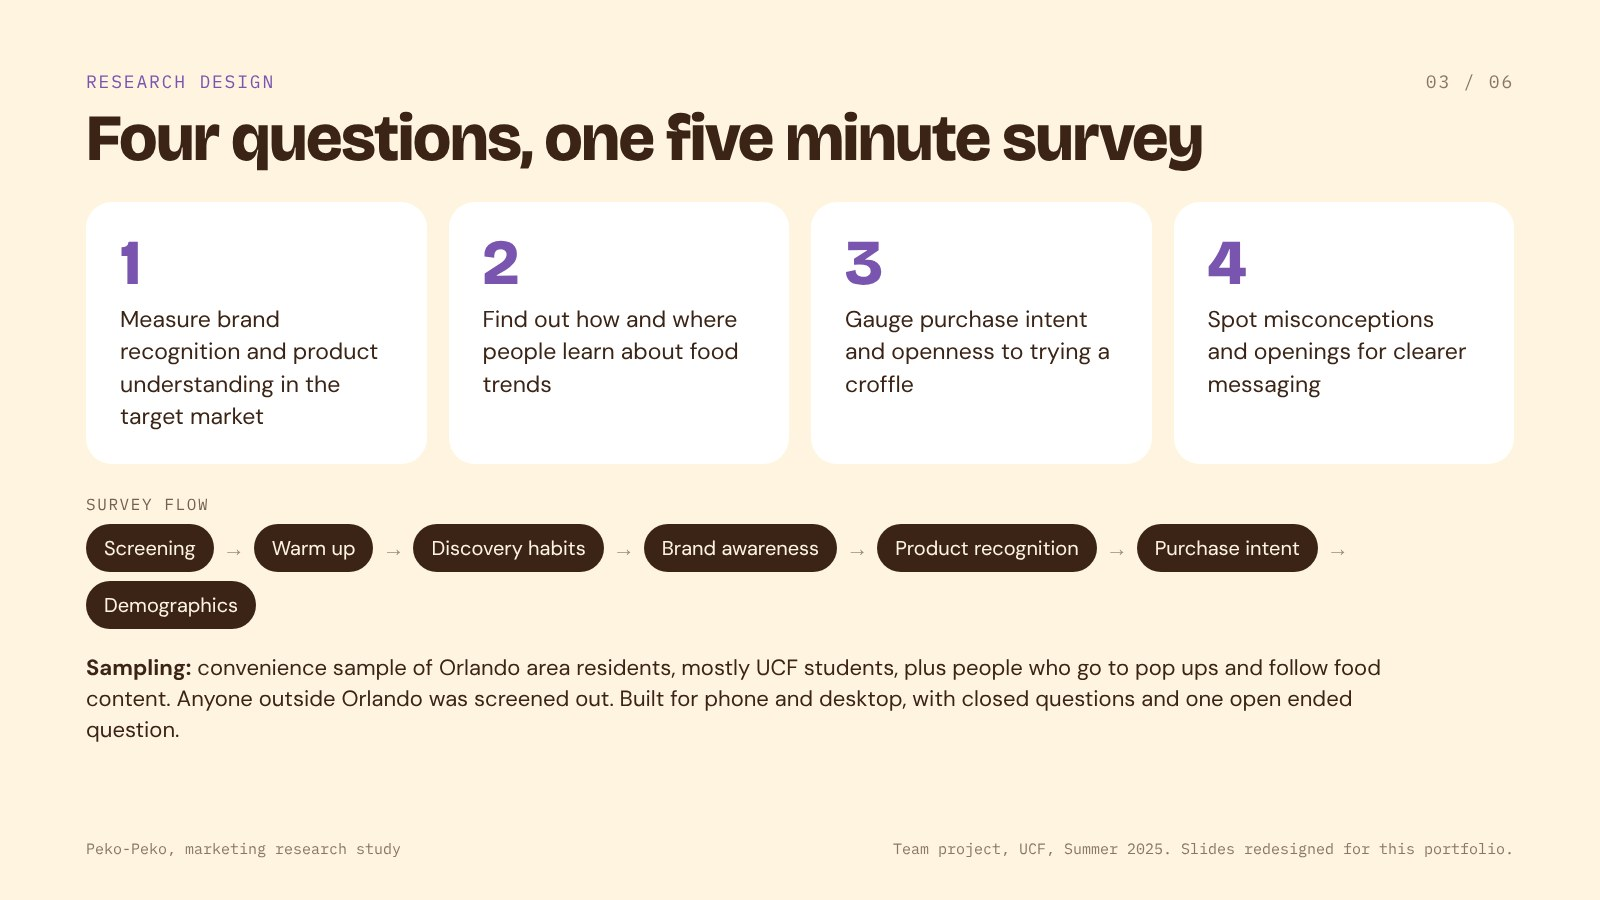
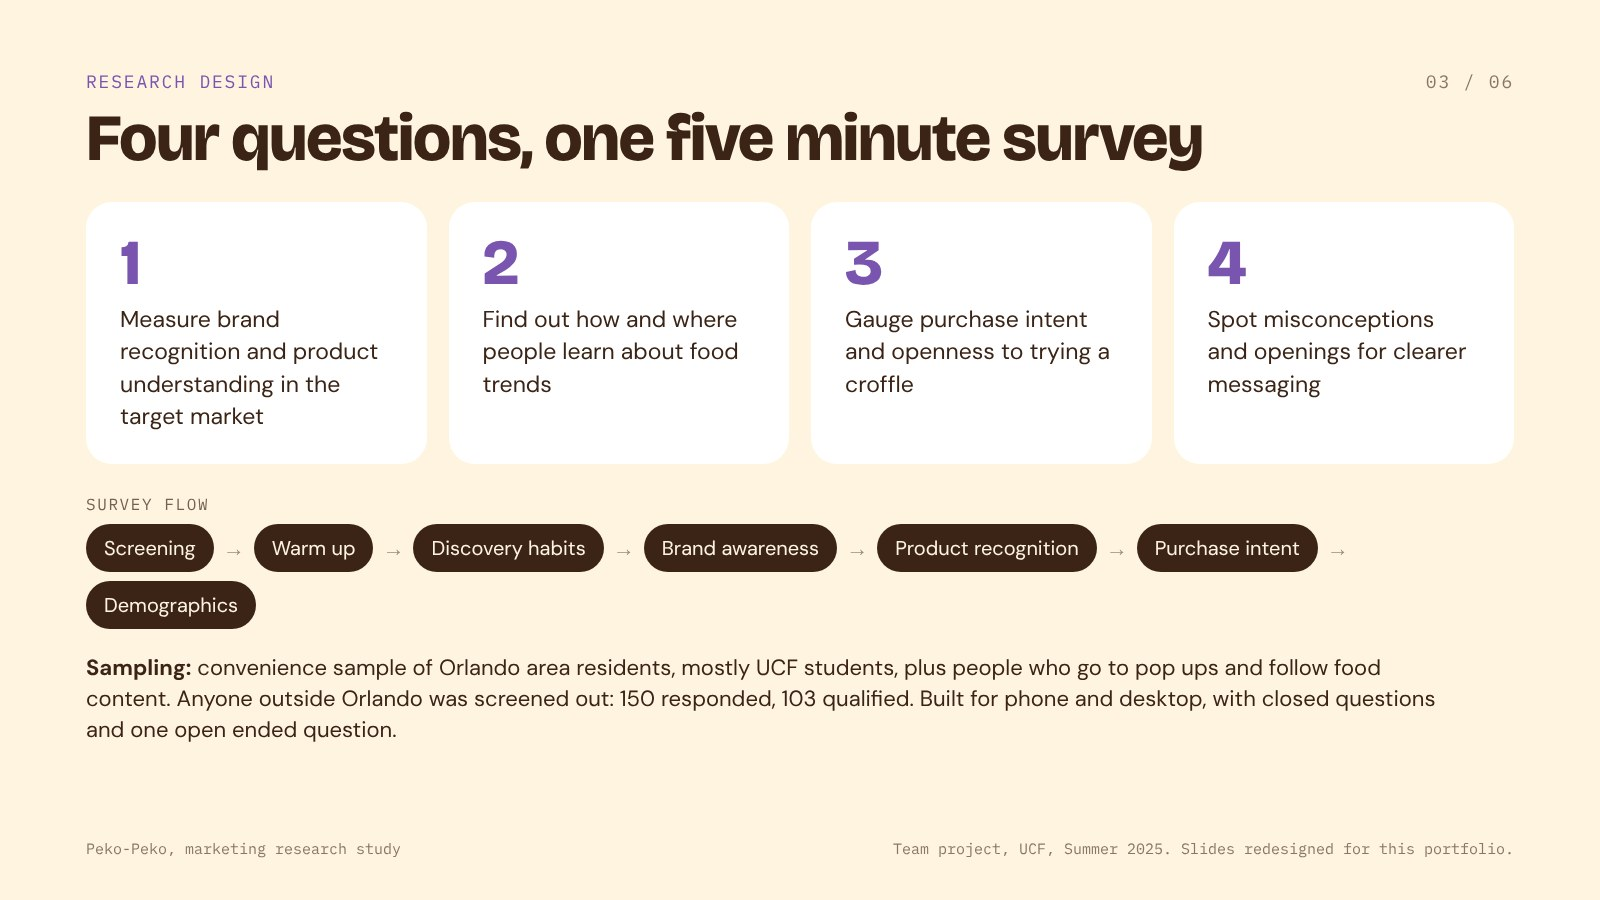
Peko Peko sample wording (150 responses, 103 qualified), remove teammate names from title slides, neutral home page copy
Claude-Session: https://claude.ai/code/session_01A59cpa2LtsJ4dSUsHR6Ge1

Changed region(s): [[0.375, 0.7467, 0.875, 0.8089], [0.0625, 0.8089, 0.25, 0.84]]

diff --git a/cases/pekopeko/index.html b/cases/pekopeko/index.html
@@ -10,7 +10,7 @@
 <section class="bhead"><div class="wrap"><a class="crumb" href="../../index.html#research">Research and strategy</a>
 <h1>Peko Peko</h1><p class="dek">Marketing research, UCF, Summer 2025, team project</p></div></section>
 <section class="block"><div class="wrap"><div class="pra"><div><span class="h4">Problem</span><p>A croffle pop up in Orlando, owned by UCF alumni, had just rebranded. It needed to know if local people recognized the brand, understood the product and would try it before spending more on growth.</p></div>
-<div><span class="h4">What I did</span><p>I led outreach to 20+ alumni owned businesses on a 48 hour deadline to find the client, then our team designed a Qualtrics survey sent to 150+ consumers on awareness, discovery habits and purchase intent. The analysis in these slides covers 103 responses. Beyond descriptive stats, we ran a hypothesis test on likelihood to try a croffle and a correlation against how often people buy local food.</p></div><div><span class="h4">Result</span><p>Interest averaged 8.56 out of 10, well above the level we expected, and buying local food correlated with wanting to try a croffle (r = 0.26, p about 0.008). We recommended a clearer logo, a focus on Instagram and TikTok, gender neutral branding and partnerships with local food events. The slides below are redesigned for this portfolio.</p></div></div></div></section>
+<div><span class="h4">What I did</span><p>I led outreach to 20+ alumni owned businesses on a 48 hour deadline to find the client, then our team designed a Qualtrics survey on awareness, discovery habits and purchase intent. It drew 150 responses, and 103 qualified after screening. Beyond descriptive stats, we ran a hypothesis test on likelihood to try a croffle and a correlation against how often people buy local food.</p></div><div><span class="h4">Result</span><p>Interest averaged 8.56 out of 10, well above the level we expected, and buying local food correlated with wanting to try a croffle (r = 0.26, p about 0.008). We recommended a clearer logo, a focus on Instagram and TikTok, gender neutral branding and partnerships with local food events. The slides below are redesigned for this portfolio.</p></div></div></div></section>
 <section class="block"><div class="wrap"><div class="gallery"><figure><img src="../../images/pekopeko-hero.jpg" alt="Peko Peko: project image" loading="lazy"></figure><figure><img src="../../images/pekopeko-2.jpg" alt="Peko Peko: project image" loading="lazy"></figure><figure><img src="../../images/pekopeko-3.jpg" alt="Peko Peko: project image" loading="lazy"></figure><figure><img src="../../images/pekopeko-4.jpg" alt="Peko Peko: project image" loading="lazy"></figure><figure><img src="../../images/pekopeko-5.jpg" alt="Peko Peko: project image" loading="lazy"></figure><figure><img src="../../images/pekopeko-6.jpg" alt="Peko Peko: project image" loading="lazy"></figure></div></div></section>
 <div class="wrap pager"><a href="../../index.html#research"><span>Back</span>All research</a></div>
 <footer class="foot"><div class="wrap"><span>Yousef AlHamori, Jeddah, Saudi Arabia</span>

diff --git a/index.html b/index.html
@@ -11,10 +11,10 @@
 <div class="hero-grid"><h1>I build social strategy from research, and I write it in <em>Arabic and English.</em></h1>
 <div class="side"><div class="arname" dir="rtl">يوسف الحموري</div>
 <p>Marketing graduate from the University of Central Florida (B.S. Business Administration, Marketing, December 2025, GPA 3.57).</p>
-<p>I'm looking for social media, content and brand roles in Jeddah or Riyadh. Below are 15 brand plans I put together, the research behind them, and the projects I did at UCF.</p>
+<p>This is my work: 15 brand plans with the posts, calendars and research behind them, plus the research projects I did at UCF.</p>
 <p><a href="#work">See the brand work</a> &nbsp; <a href="mailto:yalhamori@gmail.com">Email me</a></p></div></div>
 <div class="facts"><div><div class="v">15</div><div class="k">brand plans with posts, calendars and KPIs</div></div>
-<div><div class="v">150+</div><div class="k">consumers sent the Peko Peko survey</div></div>
+<div><div class="v">150</div><div class="k">survey responses for Peko Peko, 103 qualified</div></div>
 <div><div class="v">2x</div><div class="k">profit in 3 months at Water Network Solutions</div></div>
 <div><div class="v">1st</div><div class="k">of 4 teams, Cantopia sales simulation</div></div></div></div></section>
 
@@ -74,8 +74,8 @@
 <li>Tools: Excel, PowerPoint, Canva, Tableau, Qualtrics, Sawtooth. Languages: Arabic and English, both native.</li></ul></div></div>
 </div></div></section>
 
-<section class="contact" id="contact"><div class="wrap"><span class="lbl">Contact</span><h2>Hiring for social, content or brand in Saudi Arabia? I'd like to hear about it.</h2>
-<a class="big" href="mailto:yalhamori@gmail.com">yalhamori@gmail.com</a><p><a href="https://www.linkedin.com/in/yousefalhamori">linkedin.com/in/yousefalhamori</a> &nbsp; Based in Jeddah, open to Riyadh.</p></div></section>
+<section class="contact" id="contact"><div class="wrap"><span class="lbl">Contact</span><h2>Want to talk through any of this work? Get in touch.</h2>
+<a class="big" href="mailto:yalhamori@gmail.com">yalhamori@gmail.com</a><p><a href="https://www.linkedin.com/in/yousefalhamori">linkedin.com/in/yousefalhamori</a> &nbsp; Based in Jeddah, Saudi Arabia.</p></div></section>
 <footer class="foot"><div class="wrap"><span>Yousef AlHamori, Jeddah, Saudi Arabia</span>
 <span><a href="mailto:yalhamori@gmail.com">yalhamori@gmail.com</a> &nbsp; <a href="https://www.linkedin.com/in/yousefalhamori">LinkedIn</a></span></div></footer>
 </body></html>
